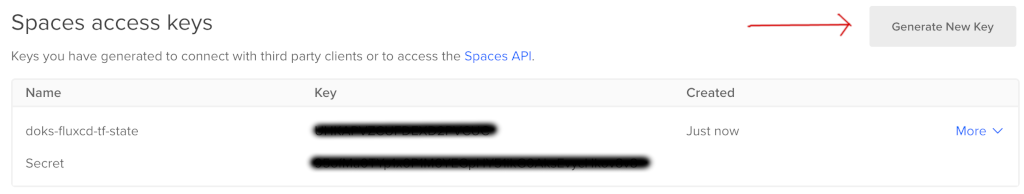
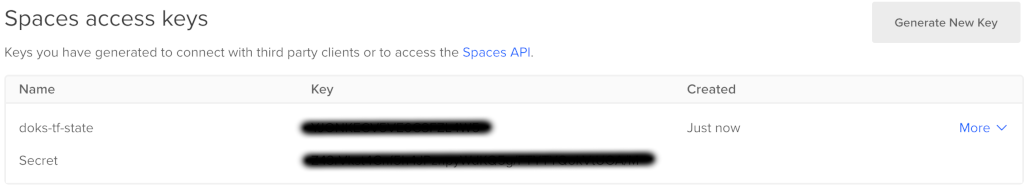
docs update

diff --git a/README.md b/README.md
@@ -8,7 +8,7 @@ This section contains information about how we can bootstrap **DOKS** and **Flux
 ### Requirements:
 
 1. A DigitalOcean [account](https://cloud.digitalocean.com) is required in order to provision the DOKS cluster.
-2. A [Github](https://github.com/) account is needed with a [personal access token](https://github.com/settings/tokens) that has the `repo` permissions set (save it for later use).
+2. Next a [Github](https://github.com/) account is needed with a [personal access token](https://github.com/settings/tokens) that has the `repo` permissions set (save it for later use).
 3. A git client needs to be installed as well depending on the distro.
   
     E.g.: on MacOS it can be installed via Homebrew:
@@ -31,15 +31,31 @@ This section contains information about how we can bootstrap **DOKS** and **Flux
    
     From your DigitalOcean account go to [API](https://cloud.digitalocean.com/account/api) section in order to generate the tokens. 
     
-    Create a personal access token first:
+    Create a personal access token first by clicking the big blue `Generate New Token` button:
+
+    ![Applications & API Key](content/img/pt_gen_1st.png)
+
+    then make sure to give it a proper name and that the `Write` scope is checked:
+
+    ![Applications & API Key](content/img/pt_gen_2nd.png)
+
+    In the end we should have something like this:
 
     ![Applications & API Key](content/img/api_access_key.png)
 
-    then one for spaces:
+    Next we navigate to `Spaces access keys` and click the `Generate New Key` button:
+
+    ![Spaces Key](content/img/spk_gen_1st.png)
+
+    then give it a proper name and mark it as done:
+
+    ![Spaces Key](content/img/spk_gen_2nd.png)
+
+    In the end we should have something like this:
 
     ![Spaces Key](content/img/spaces_key.png)
 
-2. Next we have to create a DO Space for storing the Terraform state file. Go ahead to your DigitalOcean account panel. Select a region that's more closer to you then make sure that `Restrict file listing` is checked and finally give it a name. The required steps are highlighted below:
+2. Going further we have to create a DO Space for storing the Terraform state file. Go ahead to your DigitalOcean account panel. Select a region that's more closer to you then make sure that `Restrict file listing` is checked and finally give it a name. The required steps are highlighted below:
 
     ![Create DO Space](content/img/do_spaces_rs.png)
 
@@ -108,7 +124,7 @@ This section contains information about how we can bootstrap **DOKS** and **Flux
 
 In order to inspect the Kubernetes cluster state as well as Flux CD and getting information about various components we need to install a few tools like:
 
-1. `doctl` for DigitalOcean interaction (most of the tasks that can be done via the DO account web interface can be accomplished from CLI as well) 
+1. `doctl` for DigitalOcean interaction (most of the tasks that can be done via the DO account web interface can be accomplished using the CLI version as well) 
 2. `kubectl` for Kubernetes interaction
 3. `flux` for Flux CD interaction
 
@@ -121,7 +137,7 @@ brew info doctl
 brew install doctl
 ```
 
-After installation we have to initialize it using the DigitalOcean personal token created at the beginning of this tutorial (the context represents the token name that was assigned to it):
+After installation we have to initialize it using the DigitalOcean personal token created at the beginning of this blueprint (the context represents the token name that was assigned to it):
 
 ```bash
 doctl auth init --context <personal_token_assigned_name>
@@ -136,13 +152,13 @@ brew info kubectl
 brew install kubectl
 ```
 
-Next we have to set kubectl context to point to our cluster created in this tutorial like this:
+Next we have to set kubectl context to point to our cluster created in this blueprint like this:
 
 ```bash
 doctl k8s cluster kubeconfig save <doks_cluster_name>
 ```
 
-Where `<doks_cluster_name>` must be replaced with the name given to the cluster in the `project.tfvars` file created in this tutorial (the variable is `doks_cluster_name`).
+Where `<doks_cluster_name>` must be replaced with the name given to the cluster in the `project.tfvars` file created in this blueprint (the variable is `doks_cluster_name`).
 
 ### Flux
 
@@ -160,7 +176,7 @@ Inspect all resources with:
 flux get all
 ```
 
-In case we need to do some troubleshooting and also see what Flux CD is doing we can have access to the logs via:
+In case we need to do some troubleshooting and also see what Flux CD is doing we can access the logs via:
 
 ```bash
 flux logs
